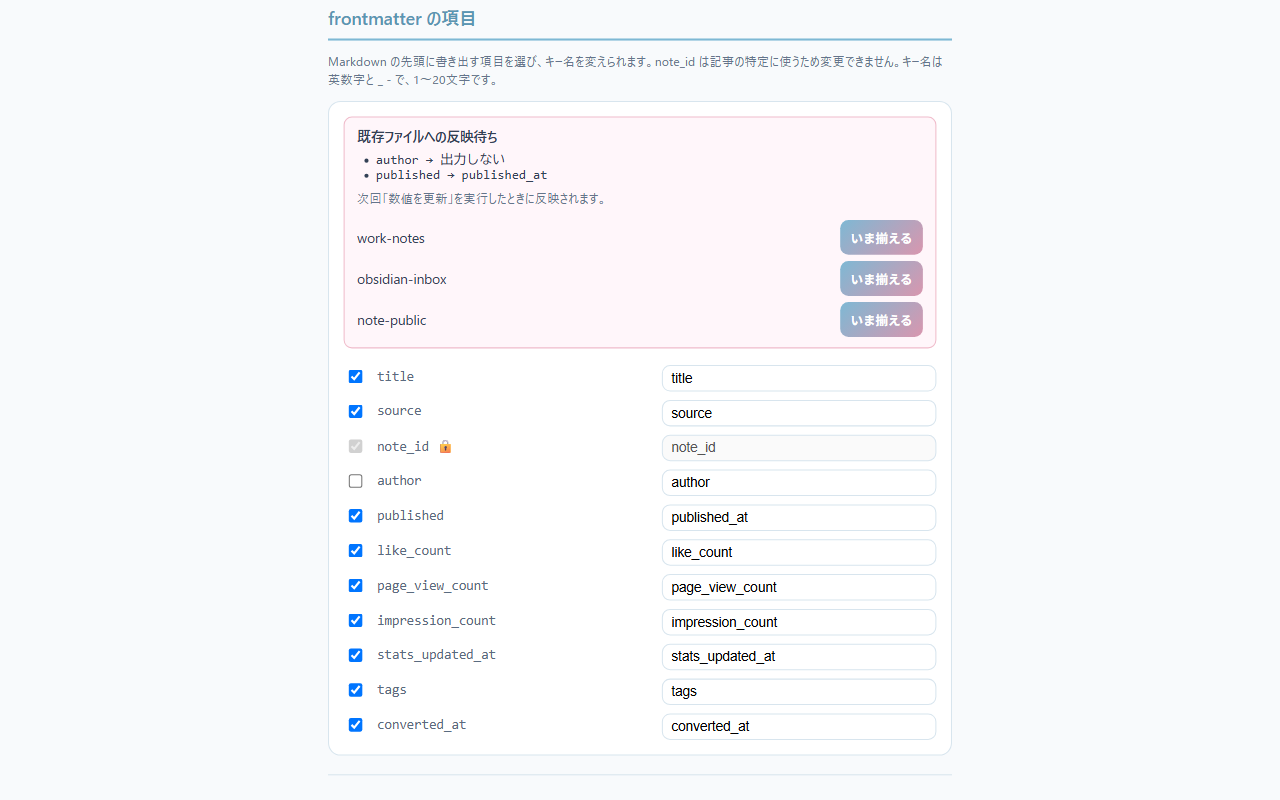
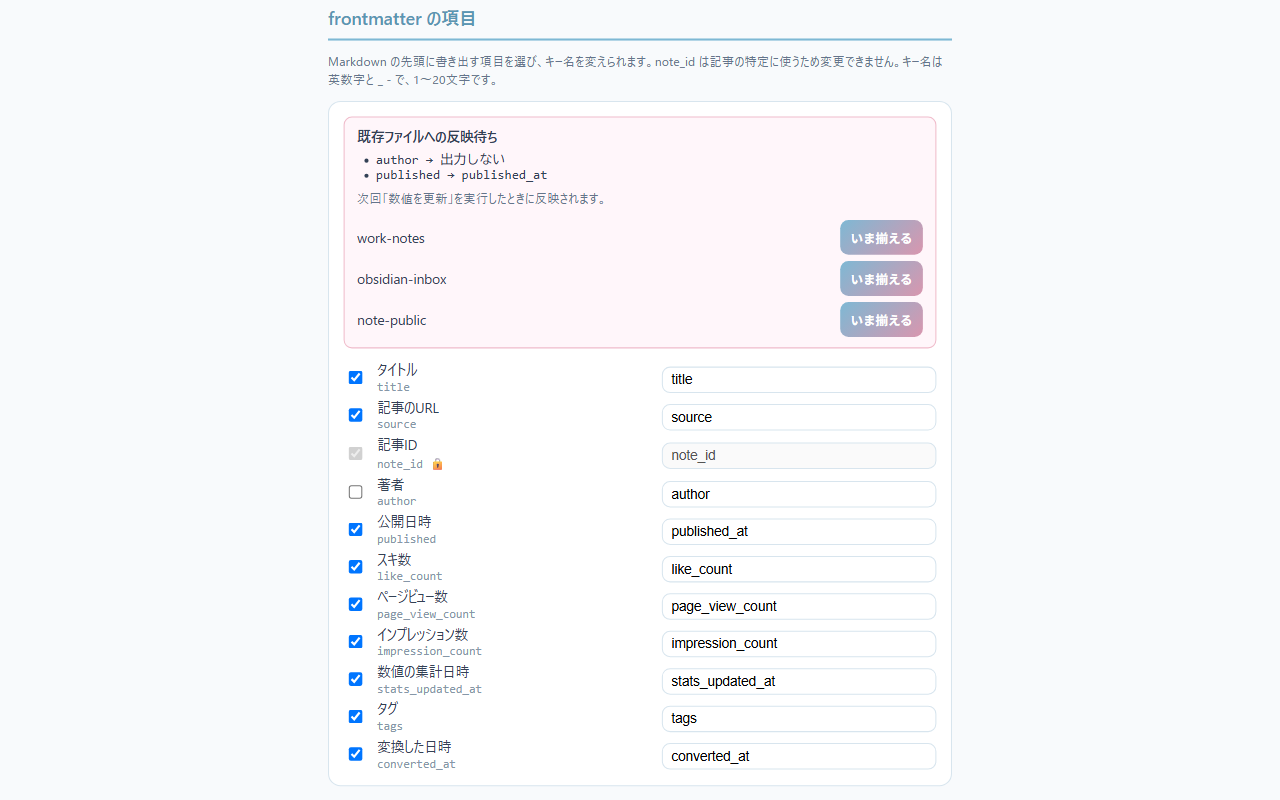
frontmatter の項目に呼び名を添える
キー名だけでは何の項目か分からない（source や stats_updated_at など）ため、
日本語／英語の呼び名を上に、既定のキー名を小さく下に出す。

改名しても既定のキー名は表示したままにして、どの項目かを見失わないようにした。

Changed region(s): [[0.5, 0.4688, 0.7188, 0.9688], [0.25, 0.4375, 0.375, 0.9688]]

diff --git a/lib/i18n.js b/lib/i18n.js
@@ -325,6 +325,17 @@
       "options.frontmatter.title": "frontmatter の項目",
       "options.frontmatter.hint":
         "Markdown の先頭に書き出す項目を選び、キー名を変えられます。note_id は記事の特定に使うため変更できません。キー名は英数字と _ - で、1〜20文字です。",
+      "options.frontmatter.label.title": "タイトル",
+      "options.frontmatter.label.source": "記事のURL",
+      "options.frontmatter.label.note_id": "記事ID",
+      "options.frontmatter.label.author": "著者",
+      "options.frontmatter.label.published": "公開日時",
+      "options.frontmatter.label.like_count": "スキ数",
+      "options.frontmatter.label.page_view_count": "ページビュー数",
+      "options.frontmatter.label.impression_count": "インプレッション数",
+      "options.frontmatter.label.stats_updated_at": "数値の集計日時",
+      "options.frontmatter.label.tags": "タグ",
+      "options.frontmatter.label.converted_at": "変換した日時",
       "options.frontmatter.output": "出力する",
       "options.frontmatter.nameLabel": "キー名",
       "options.frontmatter.fixedHint": "変更できません",
@@ -676,6 +687,17 @@
       "options.frontmatter.title": "Frontmatter keys",
       "options.frontmatter.hint":
         "Choose which keys are written at the top of the Markdown, and rename them. note_id cannot be changed because it identifies the article. Names are 1-20 characters, letters, digits, _ and -.",
+      "options.frontmatter.label.title": "Title",
+      "options.frontmatter.label.source": "Article URL",
+      "options.frontmatter.label.note_id": "Article ID",
+      "options.frontmatter.label.author": "Author",
+      "options.frontmatter.label.published": "Published",
+      "options.frontmatter.label.like_count": "Likes",
+      "options.frontmatter.label.page_view_count": "Page views",
+      "options.frontmatter.label.impression_count": "Impressions",
+      "options.frontmatter.label.stats_updated_at": "Stats aggregated at",
+      "options.frontmatter.label.tags": "Tags",
+      "options.frontmatter.label.converted_at": "Converted at",
       "options.frontmatter.output": "Write",
       "options.frontmatter.nameLabel": "Key name",
       "options.frontmatter.fixedHint": "Cannot be changed",

diff --git a/options/options.js b/options/options.js
@@ -1753,20 +1753,30 @@ const renderFrontmatterKeys = () => {
       setStatus(STATUS_TARGETS.frontmatter, t("options.frontmatter.saved"), "ok");
     });
 
+    // キー名だけでは何の項目か分からないため、呼び名を添える。
+    const name = document.createElement("span");
+    name.className = "frontmatter-key-name";
+
+    const label = document.createElement("span");
+    label.className = "frontmatter-key-label";
+    label.textContent = t(`options.frontmatter.label.${def.id}`);
+
     const id = document.createElement("span");
     id.className = "frontmatter-key-id";
     id.textContent = def.defaultName;
+
+    name.append(label, id);
 
     const input = document.createElement("input");
     input.type = "text";
     input.value = entry.name;
     input.disabled = def.fixed;
     input.maxLength = NtmFrontmatterKeys.NAME_MAX_LENGTH;
-    input.setAttribute("aria-label", `${def.defaultName} ${t("options.frontmatter.nameLabel")}`);
+    input.setAttribute("aria-label", `${label.textContent} ${t("options.frontmatter.nameLabel")}`);
     input.dataset.keyId = def.id;
     input.addEventListener("change", () => applyFrontmatterName(def.id, input, row));
 
-    row.append(toggle, id, input);
+    row.append(toggle, name, input);
     frontmatterKeyListEl.appendChild(row);
   });
 

diff --git a/options/options.css b/options/options.css
@@ -390,10 +390,21 @@ button.ghost {
   gap: 10px;
 }
 
+.frontmatter-key-name {
+  display: flex;
+  flex-direction: column;
+  gap: 1px;
+  min-width: 0;
+}
+
+.frontmatter-key-label {
+  font-size: 13px;
+}
+
 .frontmatter-key-row .frontmatter-key-id {
   font-family: ui-monospace, SFMono-Regular, Consolas, monospace;
-  font-size: 13px;
-  color: #5a6b80;
+  font-size: 11.5px;
+  color: #8697a8;
 }
 
 .frontmatter-key-row input[type='text'] {
